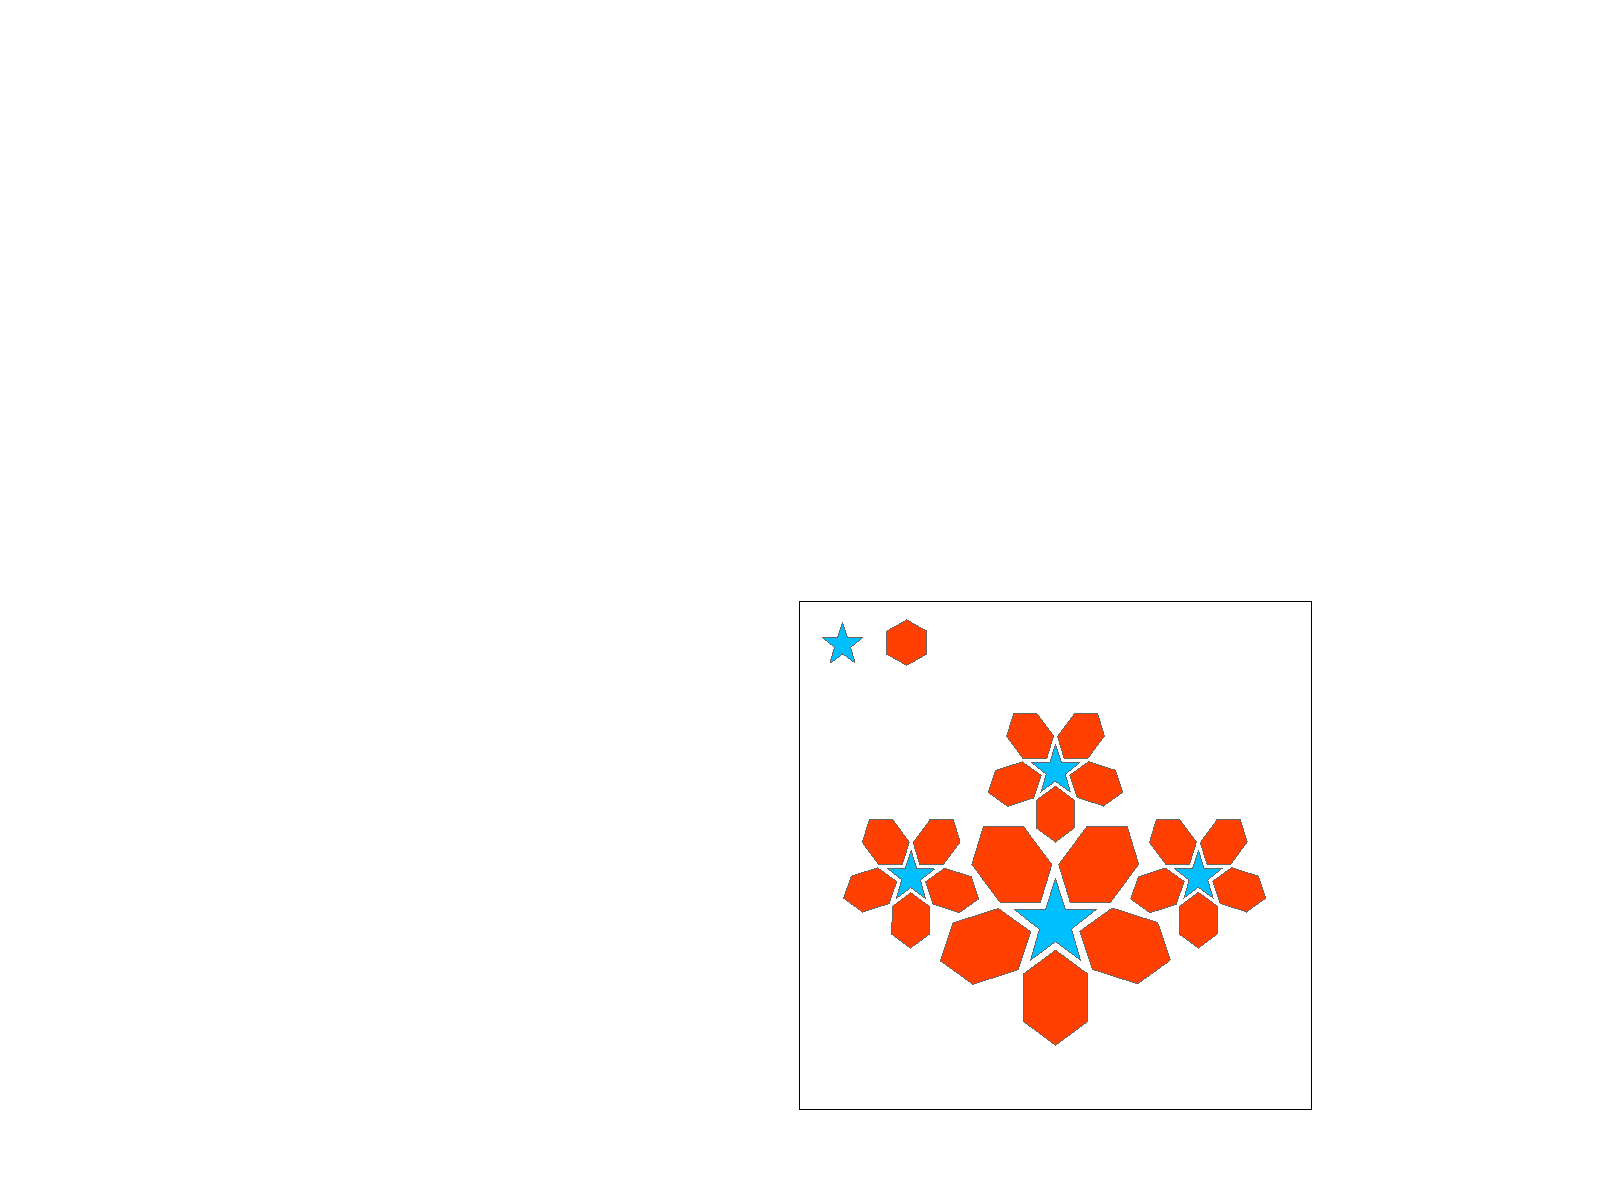
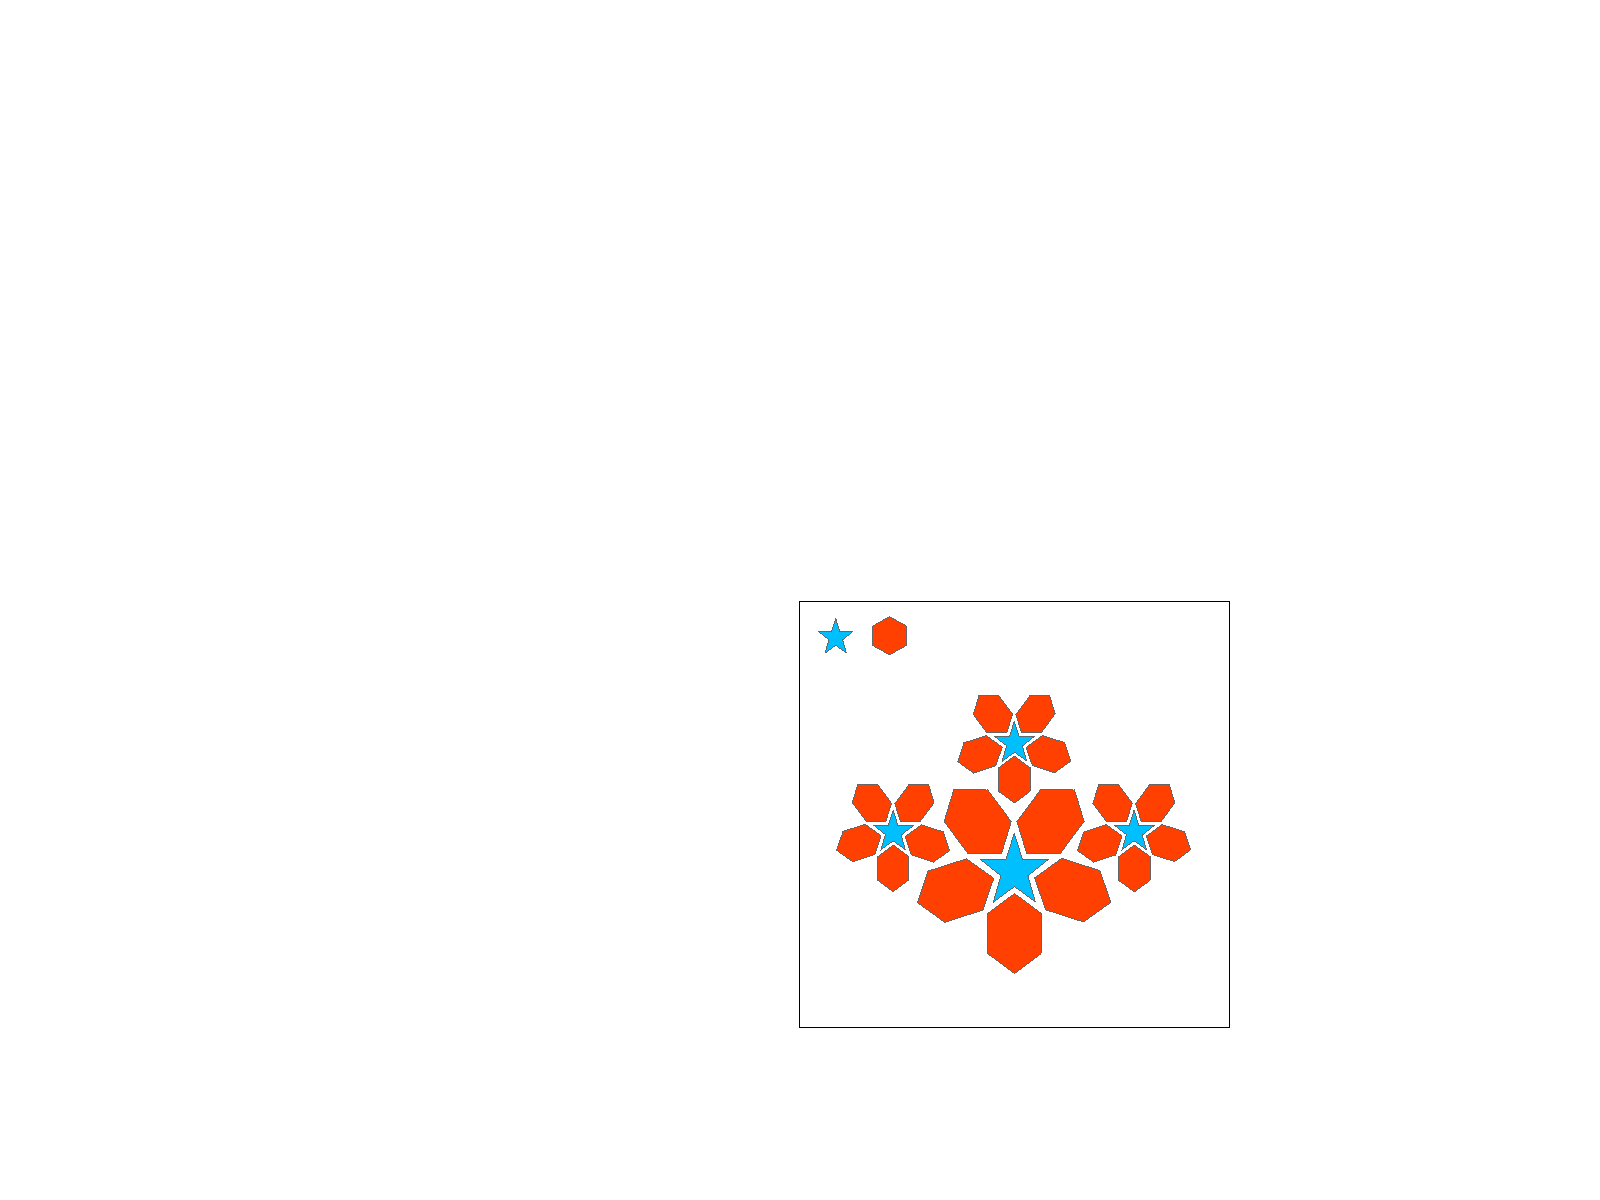
updating task 3 ec

Changed region(s): [[0.5, 0.555, 0.8125, 0.8633], [0.5, 0.4933, 0.5938, 0.555]]

diff --git a/hw1/index.html b/hw1/index.html
@@ -146,26 +146,36 @@
 		</figure>
 
 		<br>
-		<b>Extra Credit:</b> I implemented a simple 90 degree counterclockwise rotation keybind.
-		<p>Here are the screenshots of basic/test6.svg before and after 'R' was pressed.</p>
+		<b>Extra Credit:</b> I implemented two keybinds: one for 90 degree counterclockwise rotation and one for 90 degree clockwise rotation.
+		<p>Here are the screenshots of basic/test6.svg before and after the keypresses. 'A' is for counterclockwise and 'D' is for clockwise rotation.</p>
 		<div style="display: flex; flex-direction: column; align-items: center;">
 			<table style="width: 100%; text-align: center; border-collapse: collapse;">
 			  <tr>
 				<td style="text-align: center;">
 				  <img src="task3_ec_before.png" width="400px"/>
-				  <figcaption>Sample Rate: 1</figcaption>
+				  <figcaption>Before 'A'</figcaption>
 				</td>
 				<td style="text-align: center;">
-				  <img src="task3_ec_after.png" width="400px"/>
-				  <figcaption>Sample Rate: 4</figcaption>
+				  <img src="task3_ec_aftera.png" width="400px"/>
+				  <figcaption>After 'A'</figcaption>
+				</td>
+			  </tr>
+			  <tr>
+				<td style="text-align: center;">
+				  <img src="task3_ec_before.png" width="400px"/>
+				  <figcaption>Before 'D'</figcaption>
+				</td>
+				<td style="text-align: center;">
+				  <img src="task3_ec_afterd.png" width="400px"/>
+				  <figcaption>After 'D'</figcaption>
 				</td>
 			  </tr>
 			</table>
 		</div>
 
-		I added the rotate_view method stub to drawrend.h, which allowed me to access the svg_to_ndc from the rotate_view method in drawrend.cpp.
-		In rotate_view, I modify the viewing transform matrix of the current svg by adding in the transform matrix from earlier in this task. Finally, I added an additional
-		case in keyboard_event's switch statement to begin detecting 'R' keypresses.
+		I added the rotate_view method stub to drawrend.h, which allowed me to access the svg_to_ndc object from the rotate_view method in drawrend.cpp.
+		In rotate_view, I modify the viewing transform matrix of the current svg by adding in the transform matrix from earlier in this task. Finally, I added two additional
+		cases in keyboard_event's switch statement to begin detecting 'A' and 'D' keypresses. In these two cases, they call the rotate_view method and redraw the image.
 
 		<h2>Task 4: Barycentric coordinates</h2>
 
